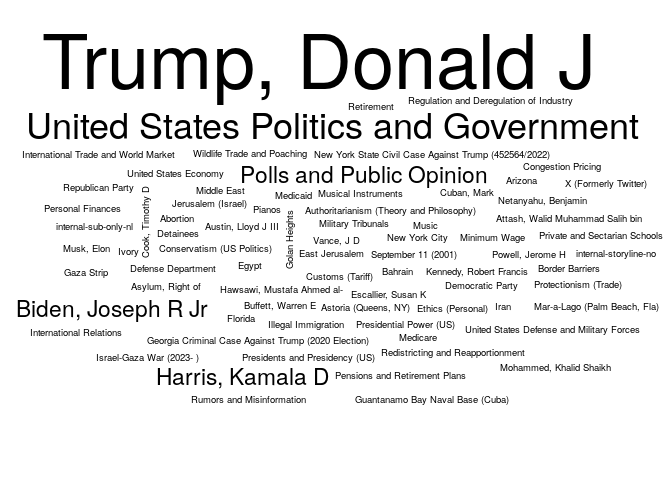
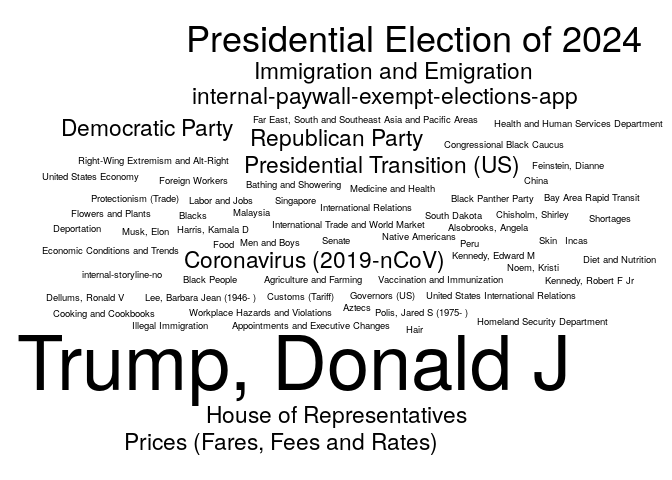
Updating the NYT report

Changed region(s): [[0.0, 0.0312, 1.0, 0.9375]]

diff --git a/03-nytimes/README.md b/03-nytimes/README.md
@@ -5,7 +5,7 @@ The following is an example of how to use the [NYTimes
 API](https://developer.nytimes.com/) to get a list of articles related
 to a particular term. Here we are searching articles that include the
 term `"health"`, and that were published up to seven days ago since
-2024-11-11.
+2024-11-18.
 
 ``` r
 # Preparing a function to use the GET method with the NYTimes API
@@ -83,25 +83,25 @@ colnames(tab) <- c("Keyword", "# Articles")
 knitr::kable(tab, row.names = FALSE)
 ```
 
-| Keyword                                  | \# Articles |
-|:-----------------------------------------|------------:|
-| Trump, Donald J                          |          30 |
-| Presidential Election of 2024            |          25 |
-| United States Politics and Government    |          15 |
-| Biden, Joseph R Jr                       |          10 |
-| Harris, Kamala D                         |          10 |
-| Polls and Public Opinion                 |          10 |
-| Abortion                                 |           5 |
-| Arizona                                  |           5 |
-| Astoria (Queens, NY)                     |           5 |
-| Asylum, Right of                         |           5 |
-| Attash, Walid Muhammad Salih bin         |           5 |
-| Austin, Lloyd J III                      |           5 |
-| Authoritarianism (Theory and Philosophy) |           5 |
-| Bahrain                                  |           5 |
-| Border Barriers                          |           5 |
-| Buffett, Warren E                        |           5 |
-| Congestion Pricing                       |           5 |
-| Conservatism (US Politics)               |           5 |
-| Cook, Timothy D                          |           5 |
-| Cuban, Mark                              |           5 |
+| Keyword                               | \# Articles |
+|:--------------------------------------|------------:|
+| Trump, Donald J                       |          30 |
+| United States Politics and Government |          25 |
+| Presidential Election of 2024         |          15 |
+| Coronavirus (2019-nCoV)               |          10 |
+| Democratic Party                      |          10 |
+| House of Representatives              |          10 |
+| Immigration and Emigration            |          10 |
+| internal-paywall-exempt-elections-app |          10 |
+| Presidential Transition (US)          |          10 |
+| Prices (Fares, Fees and Rates)        |          10 |
+| Republican Party                      |          10 |
+| Agriculture and Farming               |           5 |
+| Alsobrooks, Angela                    |           5 |
+| Appointments and Executive Changes    |           5 |
+| Aztecs                                |           5 |
+| Bathing and Showering                 |           5 |
+| Bay Area Rapid Transit                |           5 |
+| Black Panther Party                   |           5 |
+| Black People                          |           5 |
+| Blacks                                |           5 |
